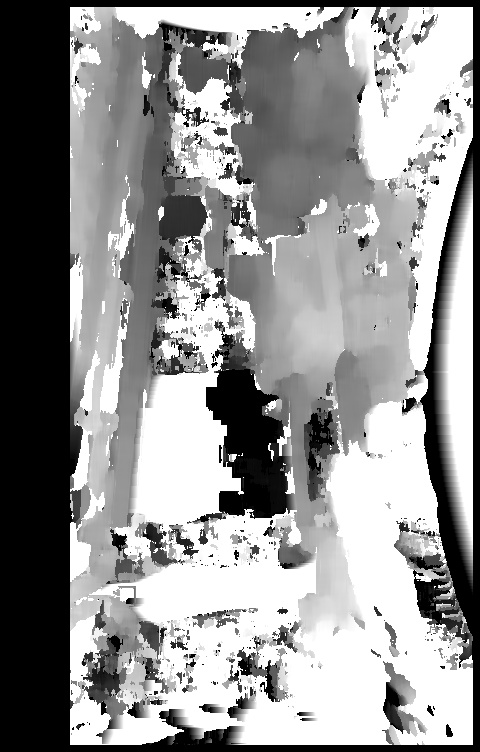
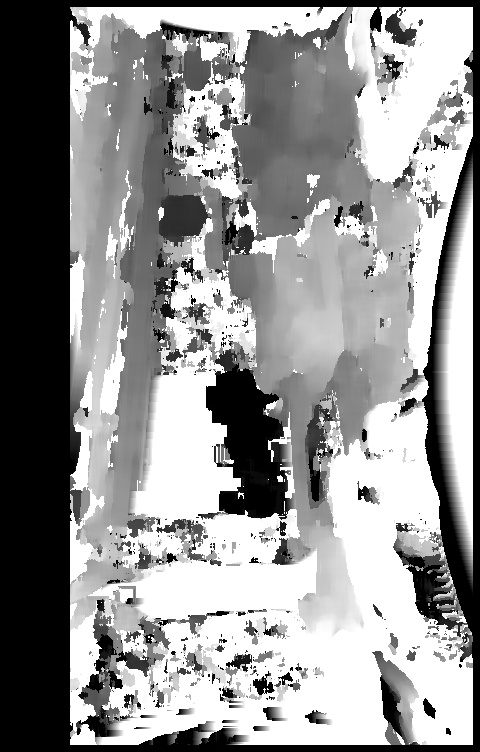
not sure if filter is helping pointcloud, but all bugs are worked out

diff --git a/indigosdk-2.0.15/src/omnis5u3mt9v022.cc b/indigosdk-2.0.15/src/omnis5u3mt9v022.cc
@@ -306,46 +306,6 @@ static void convertImage(const Mat& src, OccamImage* dst) {
 	}
 }
 
-static void deepCopyImage(OccamImage* src, OccamImage* dst) {
-	memset(dst,0,sizeof(*dst));
-	dst->refcnt = 1;
-	dst->backend = OCCAM_CPU;
-  	char cid[sizeof(src->cid)];
-  	for(unsigned int i = 0; i < sizeof(src->cid)/sizeof(src->cid[0]); i++)
-  		cid[i] = src->cid[i];
-
-  	unsigned char *src_data = (unsigned char*)(src->data);
-  	int size = -1;
-  	int count = 0;
-	for(int j = 0;j < src->height;j++){
-	    for(int i = 0;i < src->width;i++) {
-	        size = src->step[0] * j + i + 2 + 1;
-	        count += 3;
-	    }
-	}
-	printf("size: %d\n", size);
-	printf("count: %d\n", count);
-  	unsigned char dst_data[size];
-  	for(int j = 0;j < src->height;j++){
-	    for(int i = 0;i < src->width;i++) {
-			unsigned char b = src_data[src->step[0] * j + i];
-			unsigned char g = src_data[src->step[0] * j + i + 1];
-			unsigned char r = src_data[src->step[0] * j + i + 2];
-			dst_data[src->step[0] * j + i] = b;
-			dst_data[src->step[0] * j + i + 1] = g;
-			dst_data[src->step[0] * j + i + 2] = r;
-	    }
-	}
-	       
-
-	// dst->cid = *(src->cid);
-	dst->width = src->width;
-	dst->height = src->height;
-	dst->step[0] = src->step[0];
-	dst->data[0] = &dst_data[0];
-    dst->format = src->format;
-}
-
 static std::string getImageType(int number)
 {
     // find type
@@ -402,7 +362,8 @@ static DeferredImage computeDisparityImage3(std::shared_ptr<void> stereo_handle,
         int bm_speckle_range,
         int bm_speckle_window_size,
         int filter_lambda,
-        int filter_sigma) {
+        int filter_sigma,
+        int filter_ddr) {
     auto gen_fn = [=](){
         OccamImage* img0rp = img0r->get();
         OccamImage* img1rp = img1r->get();
@@ -421,6 +382,9 @@ static DeferredImage computeDisparityImage3(std::shared_ptr<void> stereo_handle,
         matching_time = ((double)getTickCount() - matching_time)/getTickFrequency();
 
         Mat disp_cv = occamImageToCvMat(disp);
+        // Mat disp_cv = imread("img/disp/unfiltered/disp"+std::to_string(index)+".jpg", IMREAD_UNCHANGED);
+        disp_cv.convertTo(disp_cv, CV_16SC1);
+
         left_for_matcher = occamImageToCvMat(img0rp);
         // right_for_matcher = occamImageToCvMat(img1rp);
         if (left_for_matcher.empty() || disp_cv.empty()) {
@@ -454,7 +418,8 @@ static DeferredImage computeDisparityImage3(std::shared_ptr<void> stereo_handle,
 
         ROI = computeROI(left_for_matcher.size(),matcher);
         wls_filter = createDisparityWLSFilterGeneric(false);
-        wls_filter->setDepthDiscontinuityRadius((int)ceil(0.33*bm_sad_window_size));
+        // wls_filter->setDepthDiscontinuityRadius((int)ceil(0.33*bm_sad_window_size));
+        wls_filter->setDepthDiscontinuityRadius(filter_ddr);
 
         // Ptr<StereoSGBM> matcher  = StereoSGBM::create(0,max_disp,bm_sad_window_size);
         // matcher->setUniquenessRatio(0);
@@ -463,26 +428,25 @@ static DeferredImage computeDisparityImage3(std::shared_ptr<void> stereo_handle,
         // matcher->setP1(24*bm_sad_window_size*bm_sad_window_size);
         // matcher->setP2(96*bm_sad_window_size*bm_sad_window_size);
         // matcher->setMode(StereoSGBM::MODE_SGBM_3WAY);
-        // ROI = computeROI(left_for_matcher.size(),matcher);
+        // ROI = computeROI(left_for_matcher.size(),matcher);	
         // wls_filter = createDisparityWLSFilterGeneric(false);
         // wls_filter->setDepthDiscontinuityRadius((int)ceil(0.5*bm_sad_window_size));
 
         printf("#################################################\n");
         printf("filter_lambda: %d\n", filter_lambda*1000);
         wls_filter->setLambda(filter_lambda*1000);
-        printf("filter_sigma: %.1f\n", (double)filter_sigma*.1);
+        printf("filter_sigma: %.2f\n", (double)filter_sigma*.1);
         wls_filter->setSigmaColor((double)filter_sigma*.1);
         printf("#################################################\n");
 
-        // filtering_time = (double)getTickCount();
-        // wls_filter->filter(disp_cv,left_for_matcher,filtered_disp,Mat(),ROI);
-        // filtering_time = ((double)getTickCount() - filtering_time)/getTickFrequency();
-        filtered_disp = disp_cv.clone();
+        filtering_time = (double)getTickCount();
+        wls_filter->filter(disp_cv,left_for_matcher,filtered_disp,Mat(),ROI);
+        filtering_time = ((double)getTickCount() - filtering_time)/getTickFrequency();
+        // filtered_disp = disp_cv.clone();
 
-        // filtered_disp.setTo(cv::Scalar(255,255,255));
-        int r = rand() % 256;
-        int b = rand() % 256;
-        int g = rand() % 256;
+        // int r = rand() % 256;
+        // int b = rand() % 256;
+        // int g = rand() % 256;
         // filtered_disp.setTo(Scalar(r,b,g));
         
         // printf("matching_time: %.3f\n", matching_time);
@@ -495,28 +459,24 @@ static DeferredImage computeDisparityImage3(std::shared_ptr<void> stereo_handle,
         OccamImage* filtered_disp_OI_copy;
 		occamCopyImage(filtered_disp_OI, &filtered_disp_OI_copy, 1);
 
-        Mat bw;
-        filtered_disp.convertTo(bw, CV_8UC1);
-        threshold(bw, bw, 40, 255, CV_THRESH_BINARY);
-        int total = filtered_disp.rows * filtered_disp.cols;
-        int c = countNonZero(bw);
-        if(c > total*.025) {
-            imwrite("img/disp/filtered/filtered_disp"+std::to_string(index)+".jpg", filtered_disp);
-            if(index == 0) { // || index == 1) {
-                filtered_disp.convertTo(filtered_disp, CV_8UC1);
-                imshow("filtered_disp"+std::to_string(index), filtered_disp);
-<<<<<<< HEAD
-                imshow("bw", bw);
-=======
-                // imshow("bw", bw);
->>>>>>> 0af99b0... fixed another memory issue, freed occam img too soon
-                waitKey(1);
-            }
-        }
+        // Mat bw;
+        // filtered_disp.convertTo(bw, CV_8UC1);
+        // threshold(bw, bw, 40, 255, CV_THRESH_BINARY);
+        // int total = filtered_disp.rows * filtered_disp.cols;
+        // int c = countNonZero(bw);
+        // if(c > total*.025) {
+        //     imwrite("img/disp/filtered/filtered_disp"+std::to_string(index)+".jpg", filtered_disp);
+        //     if(index == 0) { // || index == 1) {
+        //         filtered_disp.convertTo(filtered_disp, CV_8UC1);
+        //         imshow("filtered_disp"+std::to_string(index), filtered_disp);
+        //         // imshow("bw", bw);
+        //         waitKey(1);
+        //     }
+        // }
+        imwrite("img/disp/filtered/filtered_disp"+std::to_string(index)+".jpg", filtered_disp);
         imwrite("img/mono/left_for_matcher"+std::to_string(index)+".jpg", left_for_matcher);
         imwrite("img/mono/right_for_matcher"+std::to_string(index)+".jpg", right_for_matcher);
         occamFreeImage(disp);
-        // return filtered_disp;
         return std::shared_ptr<OccamImage>(filtered_disp_OI_copy, occamFreeImage);
     };  
     return DeferredImage(gen_fn,img0r,img1r);
@@ -552,7 +512,7 @@ static DeferredImage computeDisparityImage2(std::shared_ptr<void> stereo_handle,
         }
 
         Mat left_for_matcher, right_for_matcher;
-         left_for_matcher  = left.clone();
+        left_for_matcher  = left.clone();
         right_for_matcher = right.clone();
         // left_for_matcher = imread("img_2016-09-28_20:02/mono/left_for_matcher"+std::to_string(index)+".jpg", IMREAD_UNCHANGED);
         // right_for_matcher = imread("img_2016-09-28_20:02/mono/right_for_matcher"+std::to_string(index)+".jpg", IMREAD_UNCHANGED);
@@ -574,7 +534,7 @@ static DeferredImage computeDisparityImage2(std::shared_ptr<void> stereo_handle,
         // printf("bm_speckle_range: %d\n", bm_speckle_range);
         // printf("bm_speckle_window_size: %d\n", bm_speckle_window_size);
         // printf("filter_lambda: %d\n", filter_lambda*1000);
-        // printf("filter_sigma: %.1f\n", (double)filter_sigma*.1);
+        // printf("filter_sigma: %.2f\n", (double)filter_sigma*.1);
         // printf("#################################################\n");
         
         // StereoBM
@@ -640,11 +600,11 @@ static DeferredImage computeDisparityImage2(std::shared_ptr<void> stereo_handle,
         imwrite("img/mono/left_for_matcher"+std::to_string(index)+".jpg", left_for_matcher);
         imwrite("img/mono/right_for_matcher"+std::to_string(index)+".jpg", right_for_matcher);
 
-        // if(index == 0) { // || index == 1) {
-        //     filtered_disp.convertTo(filtered_disp, CV_8UC1);
-        //     imshow("filtered_disp"+std::to_string(index), filtered_disp);
-        //     waitKey(1);
-        // }
+        if(index == 0) { // || index == 1) {
+            filtered_disp.convertTo(filtered_disp, CV_8UC1);
+            imshow("filtered_disp"+std::to_string(index), filtered_disp);
+            waitKey(1);
+        }
 
         return std::shared_ptr<OccamImage>(filtered_disp_OI_copy, occamFreeImage);
     };  
@@ -881,6 +841,7 @@ class OccamDevice_omnis5u3mt9v022 : public OccamMetaDeviceBase {
     int target_fps;
     int filter_sigma;
     int filter_lambda;
+    int filter_ddr;
 
     int bm_prefilter_size;
     int bm_prefilter_cap;
@@ -1030,6 +991,8 @@ class OccamDevice_omnis5u3mt9v022 : public OccamMetaDeviceBase {
     int get_filter_lambda() { return filter_lambda; }
     void set_filter_sigma(int value) { filter_sigma = value; }
     int get_filter_sigma() { return filter_sigma; }
+    void set_filter_ddr(int value) { filter_ddr = value; }
+    int get_filter_ddr() { return filter_ddr; }    
 
     int get_adc_vref() {
         return int(program("w0xcc02=1;w0xcc01=0xb8;r0x2c")[0]);
@@ -1154,7 +1117,8 @@ class OccamDevice_omnis5u3mt9v022 : public OccamMetaDeviceBase {
         loaded_settings(false),
         target_fps(60),
         filter_lambda(30),
-        filter_sigma(21),
+        filter_sigma(10),
+        filter_ddr(5),
         bm_prefilter_size(9),
         bm_prefilter_cap(31),
         bm_sad_window_size(15),
@@ -1244,7 +1208,12 @@ class OccamDevice_omnis5u3mt9v022 : public OccamMetaDeviceBase {
             registerParami(OCCAM_FILTER_SIGMA,"filter_sigma",OCCAM_SETTINGS,0,50,
                     std::bind(&OccamDevice_omnis5u3mt9v022::get_filter_sigma,this),
                     std::bind(&OccamDevice_omnis5u3mt9v022::set_filter_sigma,this,_1));
-            setDefaultDeviceValuei(OCCAM_FILTER_SIGMA,21);
+            setDefaultDeviceValuei(OCCAM_FILTER_SIGMA,10);
+			
+			registerParami(OCCAM_FILTER_DDR,"filter_ddr",OCCAM_SETTINGS,0,15,
+                    std::bind(&OccamDevice_omnis5u3mt9v022::get_filter_ddr,this),
+                    std::bind(&OccamDevice_omnis5u3mt9v022::set_filter_ddr,this,_1));
+            setDefaultDeviceValuei(OCCAM_FILTER_DDR,5);
 
             registerParami(OCCAM_FILTER_LAMBDA,"filter_lambda",OCCAM_SETTINGS,0,100000,
                     std::bind(&OccamDevice_omnis5u3mt9v022::get_filter_lambda,this),
@@ -1666,16 +1635,17 @@ class OccamDevice_omnis5u3mt9v022 : public OccamMetaDeviceBase {
         int bm_uniqueness_ratio = get_bm_uniqueness_ratio();
         int bm_speckle_range = get_bm_speckle_range();
         int bm_speckle_window_size = get_bm_speckle_window_size();
-        int lambda = get_filter_lambda();
-        int sigma = get_filter_sigma();
+        int filter_lambda = get_filter_lambda();
+        int filter_sigma = get_filter_sigma();
+        int filter_ddr = get_filter_ddr();
         // *******************************************************************************
 
         // **************************** Disparity Filtering ****************************
-        auto disp0 = computeDisparityImage3(stereo_handle,0,img0_mon0r,img1_mon0r,bm_prefilter_size,bm_prefilter_cap,bm_sad_window_size,bm_min_disparity,bm_num_disparities,bm_texture_threshold,bm_uniqueness_ratio,bm_speckle_range,bm_speckle_window_size,lambda,sigma);
-        auto disp1 = computeDisparityImage3(stereo_handle,1,img0_mon1r,img1_mon1r,bm_prefilter_size,bm_prefilter_cap,bm_sad_window_size,bm_min_disparity,bm_num_disparities,bm_texture_threshold,bm_uniqueness_ratio,bm_speckle_range,bm_speckle_window_size,lambda,sigma);
-        auto disp2 = computeDisparityImage3(stereo_handle,2,img0_mon2r,img1_mon2r,bm_prefilter_size,bm_prefilter_cap,bm_sad_window_size,bm_min_disparity,bm_num_disparities,bm_texture_threshold,bm_uniqueness_ratio,bm_speckle_range,bm_speckle_window_size,lambda,sigma);
-        auto disp3 = computeDisparityImage3(stereo_handle,3,img0_mon3r,img1_mon3r,bm_prefilter_size,bm_prefilter_cap,bm_sad_window_size,bm_min_disparity,bm_num_disparities,bm_texture_threshold,bm_uniqueness_ratio,bm_speckle_range,bm_speckle_window_size,lambda,sigma);
-        auto disp4 = computeDisparityImage3(stereo_handle,4,img0_mon4r,img1_mon4r,bm_prefilter_size,bm_prefilter_cap,bm_sad_window_size,bm_min_disparity,bm_num_disparities,bm_texture_threshold,bm_uniqueness_ratio,bm_speckle_range,bm_speckle_window_size,lambda,sigma);
+        auto disp0 = computeDisparityImage3(stereo_handle,0,img0_mon0r,img1_mon0r,bm_prefilter_size,bm_prefilter_cap,bm_sad_window_size,bm_min_disparity,bm_num_disparities,bm_texture_threshold,bm_uniqueness_ratio,bm_speckle_range,bm_speckle_window_size,filter_lambda,filter_sigma,filter_ddr);
+        auto disp1 = computeDisparityImage3(stereo_handle,1,img0_mon1r,img1_mon1r,bm_prefilter_size,bm_prefilter_cap,bm_sad_window_size,bm_min_disparity,bm_num_disparities,bm_texture_threshold,bm_uniqueness_ratio,bm_speckle_range,bm_speckle_window_size,filter_lambda,filter_sigma,filter_ddr);
+        auto disp2 = computeDisparityImage3(stereo_handle,2,img0_mon2r,img1_mon2r,bm_prefilter_size,bm_prefilter_cap,bm_sad_window_size,bm_min_disparity,bm_num_disparities,bm_texture_threshold,bm_uniqueness_ratio,bm_speckle_range,bm_speckle_window_size,filter_lambda,filter_sigma,filter_ddr);
+        auto disp3 = computeDisparityImage3(stereo_handle,3,img0_mon3r,img1_mon3r,bm_prefilter_size,bm_prefilter_cap,bm_sad_window_size,bm_min_disparity,bm_num_disparities,bm_texture_threshold,bm_uniqueness_ratio,bm_speckle_range,bm_speckle_window_size,filter_lambda,filter_sigma,filter_ddr);
+        auto disp4 = computeDisparityImage3(stereo_handle,4,img0_mon4r,img1_mon4r,bm_prefilter_size,bm_prefilter_cap,bm_sad_window_size,bm_min_disparity,bm_num_disparities,bm_texture_threshold,bm_uniqueness_ratio,bm_speckle_range,bm_speckle_window_size,filter_lambda,filter_sigma,filter_ddr);
         // *******************************************************************************
 
         // **************************** StereoBM matching ****************************

diff --git a/indigosdk-2.0.15/examples/read_images_stereo_matcher.cc b/indigosdk-2.0.15/examples/read_images_stereo_matcher.cc
@@ -203,6 +203,7 @@ void printHelp() {
   printf("  v: change OCCAM_BM_SPECKLE_WINDOW_SIZE\n");
   printf("  t: change OCCAM_FILTER_LAMBDA\n");
   printf("  g: change OCCAM_FILTER_SIGMA\n");
+  printf("  b: change OCCAM_FILTER_DDR\n");
 
   printf("  up/right: increase selected param\n");
   printf("  down/left: decrease selected param\n");
@@ -498,6 +499,12 @@ int main(int argc, const char** argv) {
       changing_param[0] = OCCAM_FILTER_SIGMA;
       changing_param[1] = (OccamParam)0;
       changing_param_name = stringify(OCCAM_FILTER_SIGMA);
+      printf("################### now changing %s ###################\n", changing_param_name.c_str());
+    }
+    else if (key == 'b') {
+      changing_param[0] = OCCAM_FILTER_DDR;
+      changing_param[1] = (OccamParam)0;
+      changing_param_name = stringify(OCCAM_FILTER_DDR);
       printf("################### now changing %s ###################\n", changing_param_name.c_str());
     }
 

diff --git a/indigosdk-2.0.15/include/indigo.h b/indigosdk-2.0.15/include/indigo.h
@@ -285,7 +285,8 @@ typedef enum _OccamParam {
   BM_SPECKLE_WINDOW_SIZE = 150,
 
   OCCAM_FILTER_LAMBDA = 151,
-  OCCAM_FILTER_SIGMA = 152
+  OCCAM_FILTER_SIGMA = 152,
+  OCCAM_FILTER_DDR = 153
 
 } OccamParam;
 
